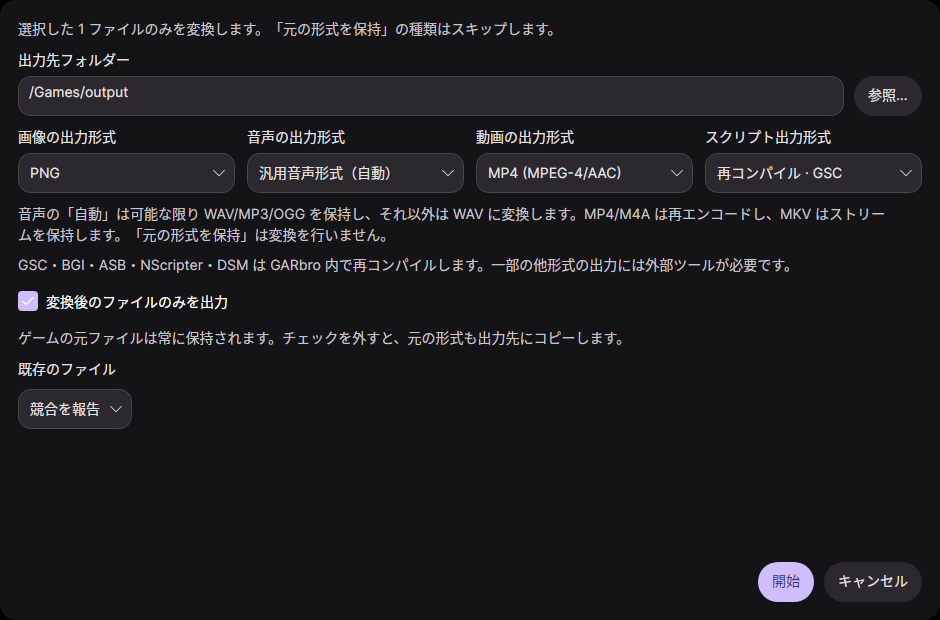
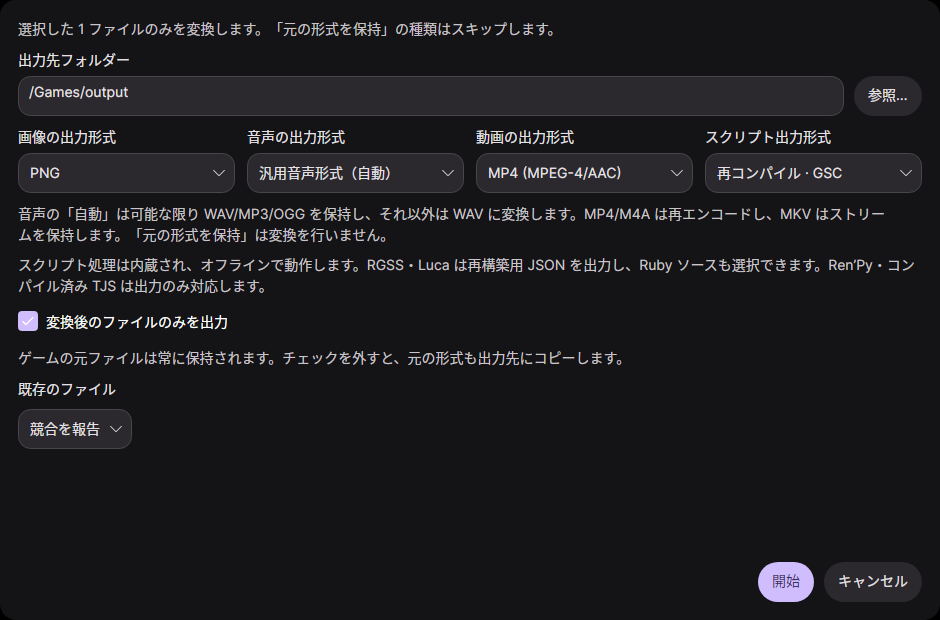
Document native script validation and recommend focused development skills

Changed region(s): [[0.0, 0.3984, 0.9255, 0.7048]]

diff --git a/docs/development-skills.md b/docs/development-skills.md
@@ -8,12 +8,20 @@ macOS build-only policy take precedence over generic advice.
 | Candidate | Source | Useful work |
 |---|---|---|
 | Avalonia | [linuxdevel/Avalonia-skills](https://github.com/linuxdevel/Avalonia-skills/tree/main/skills/avalonia) | Version-aware Avalonia 12.1.4 UI, styling, performance, input and Android guidance; load only the relevant subsection. Community-maintained. |
-| Type Design for Performance | [Aaronontheweb/dotnet-skills](https://github.com/Aaronontheweb/dotnet-skills/tree/master/skills/csharp-type-design-performance) | Allocation, collection and enumeration review in browser/preview/decoder hot paths. Treat suggestions as review prompts, not blanket rewrites. |
+| .NET Performance Engineering | [wieslawsoltes/Performance-Skill](https://github.com/wieslawsoltes/Performance-Skill/blob/main/SKILL.md) | Profile browser/preview startup, allocations, native decoding and UI dispatch latency before changing code. Explicitly separates cold/warm paths and managed/native/compositor costs; select a bounded investigation rather than every profiler. |
 | GitHub Actions Efficiency | [github/awesome-copilot](https://github.com/github/awesome-copilot/tree/main/skills/github-actions-efficiency) | Eliminate duplicate jobs, tune triggers and cache reuse while retaining required package checks. GitHub-hosted community collection. |
+| .NET Test Audit | [TheAngryByrd/dotnet-reliability-skills](https://github.com/TheAngryByrd/dotnet-reliability-skills/blob/main/dotnet-test-audit/SKILL.md) | Review C# and F# tests for actual defect detection and remove proven duplication while retaining compatibility, cancellation and safety contracts. Uses existing frameworks; audit findings do not authorize broad cleanup. |
 | Variant Analysis | [trailofbits/skills](https://github.com/trailofbits/skills/tree/main/plugins/variant-analysis) | Find other occurrences of a confirmed bounds, path, selection or serialization bug. Use a narrow search without invoking its parallel-agent workflow by default. |
 
-Prioritize Avalonia and Actions efficiency. Keep Ponytail as the default working
+Prioritize Avalonia, .NET Performance Engineering and Actions efficiency. Keep Ponytail as the default working
 style. No sufficiently verified F#-specific candidate was selected in this pass;
 our existing F# preference and local codec patterns remain the source of truth.
 Broad serialization/concurrency bundles were not selected: some guidance would
 replace the established scheme format or introduce unnecessary frameworks.
+The inspected Type Design for Performance skill from Aaronontheweb/dotnet-skills
+has useful allocation/collection prompts, but its broad type-design rules are
+less suitable as a project default than measuring the actual hot path first.
+
+These skills help the coding agent; they are not GARbro runtime dependencies.
+If adopted later, pin a reviewed revision and load only the task's relevant
+sections. Do not execute installation scripts just to discover their contents.

diff --git a/docs/native-scripts.md b/docs/native-scripts.md
@@ -68,3 +68,36 @@ Final APKs use source commit `6ae73a4dbcf544e1d61e5205aa7729a16ecef5aa`, built i
 - [x64 development APK and SHA-256](https://github.com/Love-in-idleness/GARbro-lazer/actions/runs/43891237292/artifacts/14235799835)
 
 Both package jobs passed the ABI/package checks, `zipalign -P 16` and `apksigner verify`. They use temporary development signatures; a persistent publication key is still required for update-compatible public Android releases. No new GitHub Release was published. The emulator ran x64; ARM64 was built and checked, not executed on a real device. Full Flatpak offline builds and macOS tests were not run for this change. The known independent Wayland rebuild hash mismatch remains as documented in the previous release; the shipped compatibility package is unchanged.
+
+## Native import validation — 2026-11-17
+
+[CI 44028144418](https://github.com/Love-in-idleness/GARbro-lazer/actions/runs/44028144418)
+passed 54 focused codec/database/worker checks, three GUI checks, seven public
+CLI conversions and the desktop/SchemeTool builds. The tests exercise source
+preservation, unchanged and edited RGSS templates, shared Marshal strings,
+resource-scoped Luca scheme retry, eleven profiles, independently checked local
+and cross-entry jumps, unsafe Pickle constructor rejection and damaged TJS count
+handling without replacing a previous output. Ren’Py's authored export was also
+compiled by the independent 8.5.3 SDK after the return-label fix.
+
+Android ARM64 compiled the shared codecs in
+[job 133851684688](https://github.com/Love-in-idleness/GARbro-lazer/actions/runs/44027633911/job/133851684688).
+It was not rebuilt for test-assertion and packaging-check corrections. The new
+codecs were not executed on an Android device. Windows execution and a full
+Flatpak offline build were not repeated; the offline source generator does
+discover the new Superpower dependency. No macOS tests or new release packaging
+were run.
+
+All four language catalogs contain the same 693 keys and checked placeholders.
+Actual Avalonia/Skia screenshots were inspected in English, Chinese, Russian and
+Japanese, including wrapped descriptions and visible action buttons; the
+four-language conversion screenshots in `docs/screenshots` were updated.
+
+The changed managed components and database add **784,854 bytes** over the public
+1.1.1 Linux x64 package. Including Furikiri's compressed corresponding source,
+the measured component increase is **1,036,303 bytes (0.99 MiB)**. This comparison
+does not include small notice/dependency-manifest changes and is not a full
+Store download/installation measurement. No Python/Ruby/Go runtime, game SDK or
+external script executable is bundled. Exact scope, source commits, artifact
+checksum and per-component sizes are in the
+[validation record](validation/native-script-imports.json).
